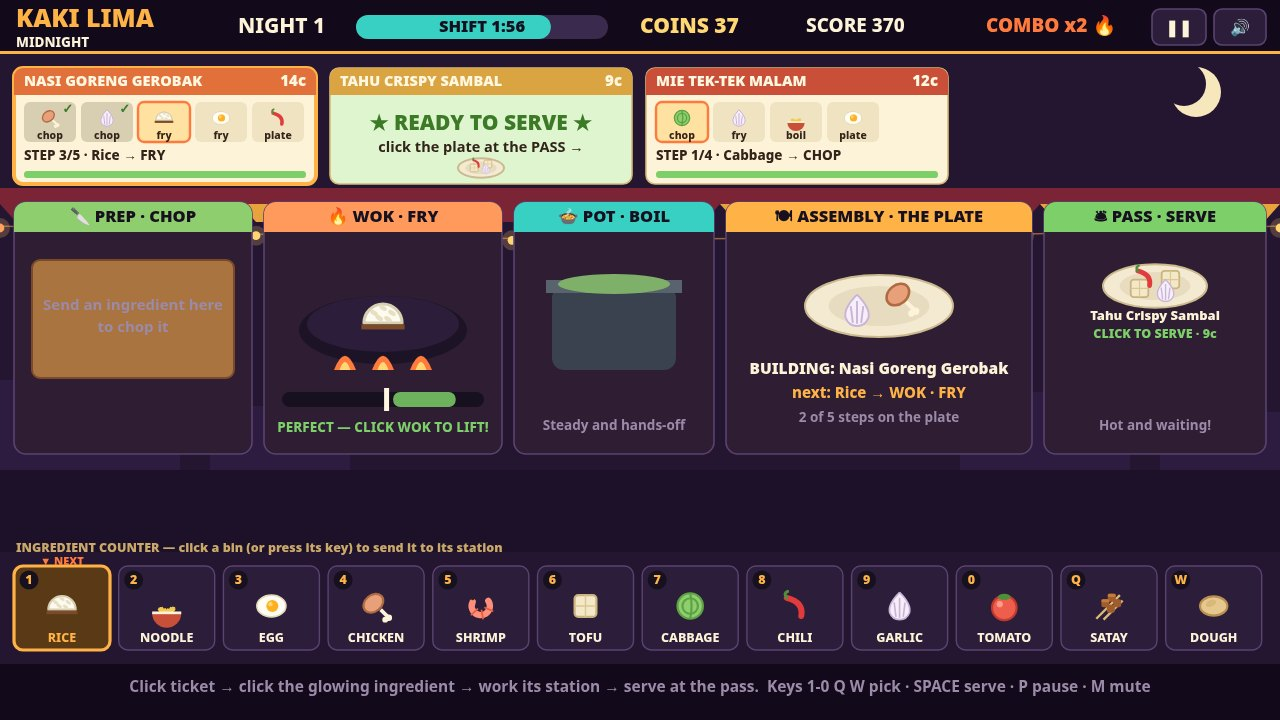
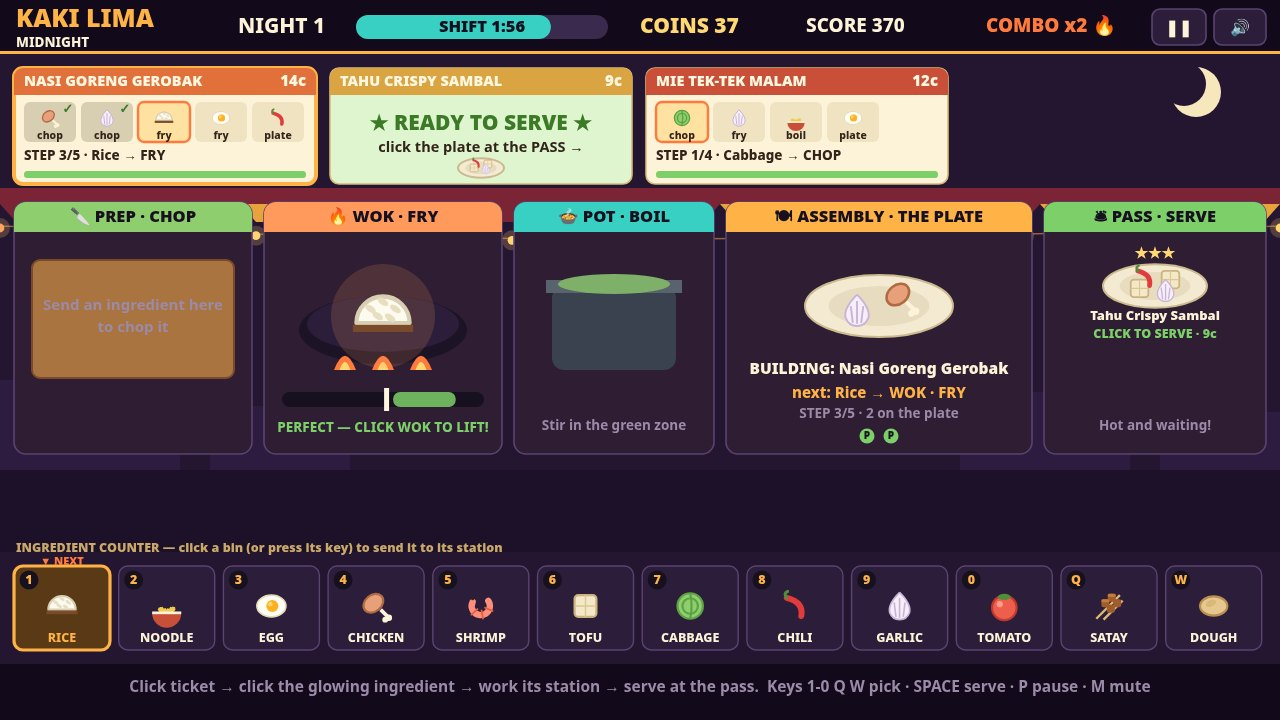
Skill-step grading a la mama-style cooking: per-step Perfect/Good/OK/Miss grades, rhythm chopping, stir-in-the-green boiling, big station ingredients, dish star ratings

diff --git a/game/src/render.js b/game/src/render.js
@@ -294,16 +294,24 @@ export function createRenderer(canvas) {
     ctx.strokeStyle = '#7a4a2b'; ctx.lineWidth = 2; ctx.stroke();
     const chopJob = state.jobs.chop;
     if (chopJob) {
-      drawIngredientIcon(ctx, chopJob.ingredient, LAYOUT.prep.x + LAYOUT.prep.w / 2, y + 112, 62);
+      ctx.fillStyle = 'rgba(255,211,110,0.14)';
+      ctx.beginPath(); ctx.arc(LAYOUT.prep.x + LAYOUT.prep.w / 2, y + 116, 56, 0, 7); ctx.fill();
+      drawIngredientIcon(ctx, chopJob.ingredient, LAYOUT.prep.x + LAYOUT.prep.w / 2, y + 116, 88);
       const lift = chopJob.done ? 0 : Math.abs(Math.sin(now * 9)) * 10;
       ctx.save();
-      ctx.translate(LAYOUT.prep.x + LAYOUT.prep.w / 2 + 40, y + 74 - lift);
+      ctx.translate(LAYOUT.prep.x + LAYOUT.prep.w / 2 + 52, y + 74 - lift);
       ctx.rotate(0.5);
       ctx.fillStyle = '#cfd6dd'; ctx.fillRect(-4, 0, 8, 42);
       ctx.fillStyle = '#5a3a22'; ctx.fillRect(-3.4, -16, 6.8, 17);
       ctx.restore();
-      progressBar(LAYOUT.prep.x + 18, y + 192, LAYOUT.prep.w - 36, chopJob.t / chopJob.duration, PALETTE.good);
-      text(ctx, chopJob.done ? 'DONE — CLICK TO PLATE IT' : 'CLICK BOARD TO CHOP FASTER!', LAYOUT.prep.x + LAYOUT.prep.w / 2, y + 224, 13.5, chopJob.done ? PALETTE.good : PALETTE.text, 'center', 800);
+      // Clean-cut pips: three on-rhythm clicks finish the board.
+      for (let pip = 0; pip < 3; pip += 1) {
+        ctx.fillStyle = pip < chopJob.cleanCuts ? PALETTE.good : '#17101f';
+        ctx.beginPath(); ctx.arc(LAYOUT.prep.x + LAYOUT.prep.w / 2 - 22 + pip * 22, y + 190, 8, 0, 7); ctx.fill();
+        ctx.strokeStyle = PALETTE.good; ctx.lineWidth = 1.6; ctx.stroke();
+      }
+      const upSwing = Math.sin(chopJob.t * 10) > 0;
+      text(ctx, chopJob.done ? 'DONE — CLICK TO PLATE IT' : upSwing ? 'NOW! CLICK FOR A CLEAN CUT' : 'click on the up-swing…', LAYOUT.prep.x + LAYOUT.prep.w / 2, y + 224, 13.5, chopJob.done || upSwing ? PALETTE.good : PALETTE.text, 'center', 800);
     } else {
       text(ctx, 'Send an ingredient here', LAYOUT.prep.x + LAYOUT.prep.w / 2, y + 104, 15, PALETTE.dim, 'center', 700);
       text(ctx, 'to chop it', LAYOUT.prep.x + LAYOUT.prep.w / 2, y + 126, 15, PALETTE.dim, 'center', 700);
@@ -323,7 +331,9 @@ export function createRenderer(canvas) {
       ctx.beginPath(); ctx.moveTo(wokCx + off - 5.5, y + 168); ctx.quadraticCurveTo(wokCx + off, y + 168 - flameH * 0.55, wokCx + off + 5.5, y + 168); ctx.closePath(); ctx.fill();
     }
     if (fryJob) {
-      drawIngredientIcon(ctx, fryJob.ingredient, wokCx, y + 116, 56);
+      ctx.fillStyle = 'rgba(255,154,92,0.16)';
+      ctx.beginPath(); ctx.arc(wokCx, y + 114, 52, 0, 7); ctx.fill();
+      drawIngredientIcon(ctx, fryJob.ingredient, wokCx, y + 114, 78);
       // Doneness meter with a green perfect window.
       const mx = LAYOUT.wok.x + 18; const mw = LAYOUT.wok.w - 36;
       ctx.fillStyle = '#17101f'; roundRect(ctx, mx, y + 190, mw, 15, 7.5); ctx.fill();
@@ -345,17 +355,27 @@ export function createRenderer(canvas) {
     ctx.fillStyle = '#7fb069'; ctx.beginPath(); ctx.ellipse(potCx, y + 82, 56, 10, 0, 0, 7); ctx.fill();
     const boilJob = state.jobs.boil;
     if (boilJob) {
-      drawIngredientIcon(ctx, boilJob.ingredient, potCx, y + 118, 46);
+      drawIngredientIcon(ctx, boilJob.ingredient, potCx, y + 118, 64);
       for (let i = 0; i < 3; i += 1) {
         const sx = potCx - 26 + i * 26 + Math.sin(now * 3 + i * 2) * 4;
         const sy = y + 58 - ((now * 22 + i * 17) % 26);
         ctx.fillStyle = 'rgba(240,248,255,0.5)';
         ctx.beginPath(); ctx.arc(sx, sy, 5.5 - ((now * 22 + i * 17) % 26) * 0.12, 0, 7); ctx.fill();
       }
-      progressBar(LAYOUT.pot.x + 16, y + 192, LAYOUT.pot.w - 32, boilJob.t / boilJob.duration, PALETTE.teal);
-      text(ctx, boilJob.done ? 'BOILED — CLICK TO PLATE IT' : 'BOILING…', potCx, y + 224, 13.5, boilJob.done ? PALETTE.good : PALETTE.text, 'center', 800);
+      progressBar(LAYOUT.pot.x + 16, y + 184, LAYOUT.pot.w - 32, boilJob.t / boilJob.duration, PALETTE.teal);
+      // Stir gauge: click the pot while the bubble marker crosses the green.
+      if (!boilJob.done) {
+        const gx = LAYOUT.pot.x + 16; const gw = LAYOUT.pot.w - 32;
+        ctx.fillStyle = '#17101f'; roundRect(ctx, gx, y + 203, gw, 11, 5.5); ctx.fill();
+        ctx.fillStyle = 'rgba(125,208,105,0.9)';
+        roundRect(ctx, gx + gw * 0.35, y + 203, gw * 0.3, 11, 5); ctx.fill();
+        const marker = 0.5 + 0.5 * Math.sin(boilJob.t * 2.4);
+        ctx.fillStyle = '#fff7e0';
+        ctx.fillRect(gx + marker * gw - 2.5, y + 200, 5, 17);
+      }
+      text(ctx, boilJob.done ? 'BOILED — CLICK TO PLATE IT' : boilJob.stirred ? 'STIRRED ✓ PERFECT BREWING' : 'CLICK TO STIR IN THE GREEN!', potCx, y + 232, 12.5, boilJob.done || boilJob.stirred ? PALETTE.good : PALETTE.text, 'center', 800);
     } else {
-      text(ctx, 'Steady and hands-off', potCx, y + 224, 13.5, PALETTE.dim, 'center', 700);
+      text(ctx, 'Stir in the green zone', potCx, y + 224, 13.5, PALETTE.dim, 'center', 700);
     }
     // ASSEMBLY.
     stationBox(LAYOUT.assembly, '🍽 ASSEMBLY · THE PLATE', '#ffb347');
@@ -365,7 +385,16 @@ export function createRenderer(canvas) {
       const stepDef = active.dish.steps[Math.min(active.stepIndex, active.dish.steps.length - 1)];
       text(ctx, `BUILDING: ${active.dish.name}`, LAYOUT.assembly.x + LAYOUT.assembly.w / 2, y + 168, 15.5, PALETTE.text, 'center', 900);
       text(ctx, `next: ${INGREDIENT_BY_ID[stepDef.ingredient].name} → ${STATIONS[stepDef.station].label}`, LAYOUT.assembly.x + LAYOUT.assembly.w / 2, y + 192, 15, PALETTE.amber, 'center', 800);
-      text(ctx, `${active.stepIndex} of ${active.dish.steps.length} steps on the plate`, LAYOUT.assembly.x + LAYOUT.assembly.w / 2, y + 216, 13.5, PALETTE.dim, 'center', 700);
+      text(ctx, `STEP ${Math.min(active.stepIndex + 1, active.dish.steps.length)}/${active.dish.steps.length} · ${active.stepIndex} on the plate`, LAYOUT.assembly.x + LAYOUT.assembly.w / 2, y + 212, 13.5, PALETTE.dim, 'center', 700);
+      // One grade dot per finished step: green Perfect, gold Good, amber OK, red Miss.
+      active.qualities.forEach((quality, index) => {
+        const gx = LAYOUT.assembly.x + LAYOUT.assembly.w / 2 + (index - (active.qualities.length - 1) / 2) * 24;
+        ctx.fillStyle = quality >= 0.95 ? PALETTE.good : quality >= 0.78 ? '#ffd873' : quality >= 0.55 ? PALETTE.warn : PALETTE.bad;
+        ctx.beginPath(); ctx.arc(gx, y + 234, 7.5, 0, 7); ctx.fill();
+        ctx.fillStyle = '#17101f';
+        ctx.font = `900 10px ${FONT}`; ctx.textAlign = 'center'; ctx.textBaseline = 'middle';
+        ctx.fillText(quality >= 0.95 ? 'P' : quality >= 0.78 ? 'G' : quality >= 0.55 ? 'O' : 'M', gx, y + 234.5);
+      });
     } else if (active && active.ready) {
       drawPlate(ctx, LAYOUT.assembly.x + LAYOUT.assembly.w / 2, LAYOUT.stations.y + 104, 74, active, 1);
       text(ctx, 'THAT PLATE IS AT THE PASS →', LAYOUT.assembly.x + LAYOUT.assembly.w / 2, y + 192, 16, PALETTE.good, 'center', 900);
@@ -380,6 +409,9 @@ export function createRenderer(canvas) {
       readyOrders.slice(0, 2).forEach((order, index) => {
         const px = LAYOUT.pass.x + LAYOUT.pass.w / 2;
         const py = y + 84 + index * 74;
+        const avg = order.qualities.length ? order.qualities.reduce((a, b) => a + b, 0) / order.qualities.length : 1;
+        const stars = avg >= 0.9 ? 3 : avg >= 0.68 ? 2 : avg >= 0.4 ? 1 : 0;
+        if (stars > 0) text(ctx, '★'.repeat(stars), px, py - 32, 15, '#ffd873', 'center', 900);
         drawPlate(ctx, px, py, 52, order, 1);
         text(ctx, order.dish.name, px, py + 30, 13, PALETTE.text, 'center', 900);
         text(ctx, `CLICK TO SERVE · ${order.dish.price}c`, px, py + 48, 12.5, PALETTE.good, 'center', 900);
@@ -421,7 +453,8 @@ export function createRenderer(canvas) {
     const message = state.messageTimer > 0 ? state.message : 'Click ticket → click the glowing ingredient → work its station → serve at the pass.  Keys 1-0 Q W pick · SPACE serve · P pause · M mute';
     text(ctx, message, 640, LAYOUT.strip.y + 24, 15.5, state.messageTimer > 0 ? PALETTE.amber : PALETTE.dim, 'center', 700);
     if (state.lastServe && state.elapsed - state.lastServe.at < 3) {
-      text(ctx, `+${state.lastServe.earned}c  ${state.lastServe.name} served!`, 1210, LAYOUT.strip.y + 24, 15, PALETTE.good, 'right', 900);
+      const starsText = state.lastServe.stars ? ` ${'★'.repeat(state.lastServe.stars)}` : '';
+      text(ctx, `${state.lastServe.grade}! +${state.lastServe.earned}c ${state.lastServe.name}${starsText}`, 1210, LAYOUT.strip.y + 24, 15, PALETTE.good, 'right', 900);
     }
   }
 

diff --git a/game/src/world.js b/game/src/world.js
@@ -129,6 +129,10 @@ export function createWorld(random) {
       duration,
       done: false,
       dinged: false,
+      doneAt: null,
+      cleanCuts: 0,
+      dullCuts: 0,
+      stirred: false,
     };
     return { ok: true, station, order };
   }
@@ -141,29 +145,63 @@ export function createWorld(random) {
     return false;
   }
 
+  // Every step earns its own grade, Cooking-Mama style: a missed step never
+  // ends the run, it just drags the dish's quality, tip and star rating down.
   function qualityForCollection(job) {
     const ratio = job.t / job.duration;
+    let base;
     if (job.station === 'fry') {
-      if (ratio < COOK.fryPerfectFrom) return SCORE.okQuality;
-      if (ratio <= COOK.fryPerfectTo) return SCORE.perfectQuality;
-      if (ratio < COOK.fryBurntAt) return SCORE.goodQuality;
-      return SCORE.poorQuality;
+      if (ratio < COOK.fryPerfectFrom) base = SCORE.okQuality;
+      else if (ratio <= COOK.fryPerfectTo) base = SCORE.perfectQuality;
+      else if (ratio < COOK.fryBurntAt) base = SCORE.goodQuality;
+      else base = SCORE.poorQuality;
+    } else if (job.station === 'boil') {
+      if (job.stirred) base = SCORE.perfectQuality;
+      else if (ratio <= 1 + COOK.boilGraceSeconds / job.duration) base = SCORE.goodQuality;
+      else base = SCORE.okQuality;
+    } else if (job.station === 'chop') {
+      if (job.cleanCuts >= 3) base = SCORE.perfectQuality;
+      else if (job.cleanCuts === 2) base = SCORE.goodQuality;
+      else if (job.cleanCuts === 1) base = SCORE.okQuality;
+      else base = SCORE.poorQuality;
+    } else {
+      base = SCORE.perfectQuality;
     }
-    if (job.station === 'boil') {
-      return ratio <= 1 + COOK.boilGraceSeconds / job.duration ? SCORE.perfectQuality : SCORE.goodQuality;
-    }
-    return SCORE.perfectQuality;
+    // A finished step left sitting on the station goes stale.
+    const late = job.doneAt === null ? 0 : Math.max(0, state.elapsed - job.doneAt);
+    const latePenalty = late > 3 ? 0.25 : late > 1.5 ? 0.1 : 0;
+    return Math.max(0.3, Math.min(1, base - latePenalty));
   }
 
-  // Clicking a station: chopping speeds the knife; a finished job is collected
-  // onto its order's plate; a wok job can be lifted early or late at a cost.
+  // Clicking a station is a skill action, never just a timer skip:
+  // - chop: click on the knife's up-swing for a clean cut; 3 clean cuts finish
+  //   the board at once, dull clicks still help but grade lower.
+  // - boil: click to stir while the bubble marker crosses the green zone;
+  //   a stirred pot grades Perfect, an unstirred one only Good.
+  // - fry: clicking lifts the ingredient out — timing against the doneness
+  //   window is the whole skill (see qualityForCollection).
+  // A finished job is collected onto its order's plate by the same click.
   function clickStation(station) {
     const job = state.jobs[station];
     if (!job) return { ok: false, reason: 'empty' };
     if (station === 'chop' && !job.done) {
-      job.t = Math.min(job.duration, job.t + COOK.chopClickBoost);
-      if (job.t >= job.duration) job.done = true;
-      return { ok: true, action: 'chop-boost', job };
+      const upSwing = Math.sin(job.t * 10) > 0;
+      if (upSwing) job.cleanCuts += 1;
+      else job.dullCuts += 1;
+      job.t = Math.min(job.duration, job.t + COOK.chopClickBoost * 0.65);
+      if (job.cleanCuts >= 3 || job.t >= job.duration) {
+        job.done = true;
+        job.doneAt = state.elapsed;
+      }
+      return { ok: true, action: upSwing ? 'chop-clean' : 'chop-dull', job };
+    }
+    if (station === 'boil' && !job.done) {
+      const marker = 0.5 + 0.5 * Math.sin(job.t * 2.4);
+      if (marker >= 0.35 && marker <= 0.65) {
+        job.stirred = true;
+        return { ok: true, action: 'stir', job };
+      }
+      return { ok: false, reason: 'stir-miss', job };
     }
     const collectable = job.done || station === 'fry';
     if (!collectable) return { ok: false, reason: 'not-ready', job };
@@ -200,13 +238,21 @@ export function createWorld(random) {
     } else {
       state.combo = 0;
     }
-    state.lastServe = { name: order.dish.name, earned, tip, quality, at: state.elapsed };
+    const dishStars = quality >= 0.9 ? 3 : quality >= 0.68 ? 2 : quality >= 0.4 ? 1 : 0;
+    state.lastServe = { name: order.dish.name, earned, tip, quality, stars: dishStars, grade: gradeOf(quality), at: state.elapsed };
     state.orders = state.orders.filter((entry) => entry.id !== order.id);
     if (state.activeOrderId === order.id) {
       const next = state.orders.find((entry) => !entry.ready) || state.orders[0];
       state.activeOrderId = next ? next.id : null;
     }
-    return { ok: true, earned, tip, quality, order };
+    return { ok: true, earned, tip, quality, stars: dishStars, grade: gradeOf(quality), order };
+  }
+
+  function gradeOf(quality) {
+    if (quality >= 0.95) return 'PERFECT';
+    if (quality >= 0.78) return 'GOOD';
+    if (quality >= 0.55) return 'OK';
+    return 'MISS';
   }
 
   function removeOrder(order) {
@@ -246,7 +292,10 @@ export function createWorld(random) {
           job.dinged = true;
           events |= EVENT_STEP_DONE;
         }
-        job.done = true;
+        if (!job.done) {
+          job.done = true;
+          job.doneAt = state.elapsed;
+        }
         if (job.t > cap) job.t = cap;
       }
     }
@@ -315,6 +364,7 @@ export function createWorld(random) {
     clickStation,
     serveOrder,
     averageQuality,
+    gradeOf,
     step,
     stars,
     nextDay,

diff --git a/game/src/main.js b/game/src/main.js
@@ -113,18 +113,28 @@ if (testMode) {
     const result = world.clickStation(station);
     if (!result.ok) {
       if (result.reason === 'not-ready') world.say('Not yet — let it cook', 1.4);
+      else if (result.reason === 'stir-miss') world.say('Splash! Stir when the marker is in the green', 1.5);
       return;
     }
-    if (result.action === 'chop-boost') {
+    if (result.action === 'chop-clean' || result.action === 'chop-dull') {
       audio.chop();
+      if (result.job.done) world.say(result.job.cleanCuts >= 3 ? 'Clean cuts! Collect it onto the plate' : 'Chopped — collect it onto the plate', 1.6);
+      return;
+    }
+    if (result.action === 'stir') {
+      audio.pop();
+      world.say('Nice stir — that pot is on for a PERFECT', 1.6);
       return;
     }
     if (result.action === 'collect') {
       if (station === 'fry') audio.sizzleStop();
       audio.pop();
+      const grade = world.gradeOf(result.quality);
       if (result.becameReady) {
         audio.ding();
-        world.say(`${result.order.dish.name} is READY — serve it at the pass!`, 2.6);
+        world.say(`${grade} finish! ${result.order.dish.name} is READY — serve it at the pass!`, 2.8);
+      } else {
+        world.say(`${grade} — step plated for ${result.order.dish.name}`, 1.7);
       }
     }
   }
@@ -137,6 +147,7 @@ if (testMode) {
     if (result.ok) {
       audio.coin();
       audio.ding();
+      world.say(`${result.grade} DISH! ${result.order.dish.name} served ${'★'.repeat(result.stars)} +${result.earned} coins`, 3);
     }
   }
 

diff --git a/game/src/shots.js b/game/src/shots.js
@@ -18,6 +18,9 @@ function forceStep(world, order, ingredient, station, jobT) {
       if (jobT >= job.duration) {
         job.done = true;
         job.dinged = true;
+        job.doneAt = world.state.elapsed;
+        job.cleanCuts = 3;
+        job.stirred = true;
       }
     }
   }

diff --git a/README.md b/README.md
@@ -15,14 +15,21 @@ night shift, then come back tomorrow to a harder night and a bigger menu.
   chicken, shrimp, tofu, cabbage, chili, garlic, tomato, satay, dough).
   Click a bin or press its key (1–0, Q, W) to send the next needed
   ingredient to its station. The glowing bin is always the next step.
-- **Stations** — chop on the prep board (click the board to chop faster),
-  fry in the wok (lift it inside the green doneness window or serve it
-  undercooked, over or burnt), boil in the pot (steady, with a grace
-  window), and plate the finisher onto the assembly plate, where the dish
-  visibly builds up ingredient by ingredient.
-- **The pass** — a finished plate waits at the pass, ready to serve. Click
-  it (or press Space) to collect its price plus a tip scaled by patience
-  left and cooking quality. Good, fast plates build a combo streak.
+- **Stations are skill actions, and every step is graded** (PERFECT / GOOD /
+  OK / MISS — a missed step never ends the run, it just drags the dish's
+  grade, tip and stars down):
+  chop on the prep board (click on the knife's up-swing: 3 clean cuts finish
+  the board), fry in the wok (lift it inside the green doneness window or
+  serve it undercooked, over or burnt), boil in the pot (click to stir while
+  the bubble marker crosses the green zone), and plate the finisher onto
+  the assembly plate, where the dish visibly builds up ingredient by
+  ingredient, one grade dot per finished step. The ingredient being worked
+  is shown big at its station, and every ticket and the assembly board show
+  the current Step n/N.
+- **The pass** — a finished plate waits at the pass with its dish star
+  rating (1–3 stars from its step grades), ready to serve. Click it (or
+  press Space) to collect its price plus a tip scaled by patience left and
+  cooking quality. Good, fast plates build a combo streak.
 - Expired tickets walk away and cost 5 coins. At last orders you get the
   night's summary — served, missed, earnings and a 0–3 star stall rating —
   and the next night is faster, less patient, and unlocks new dishes.
